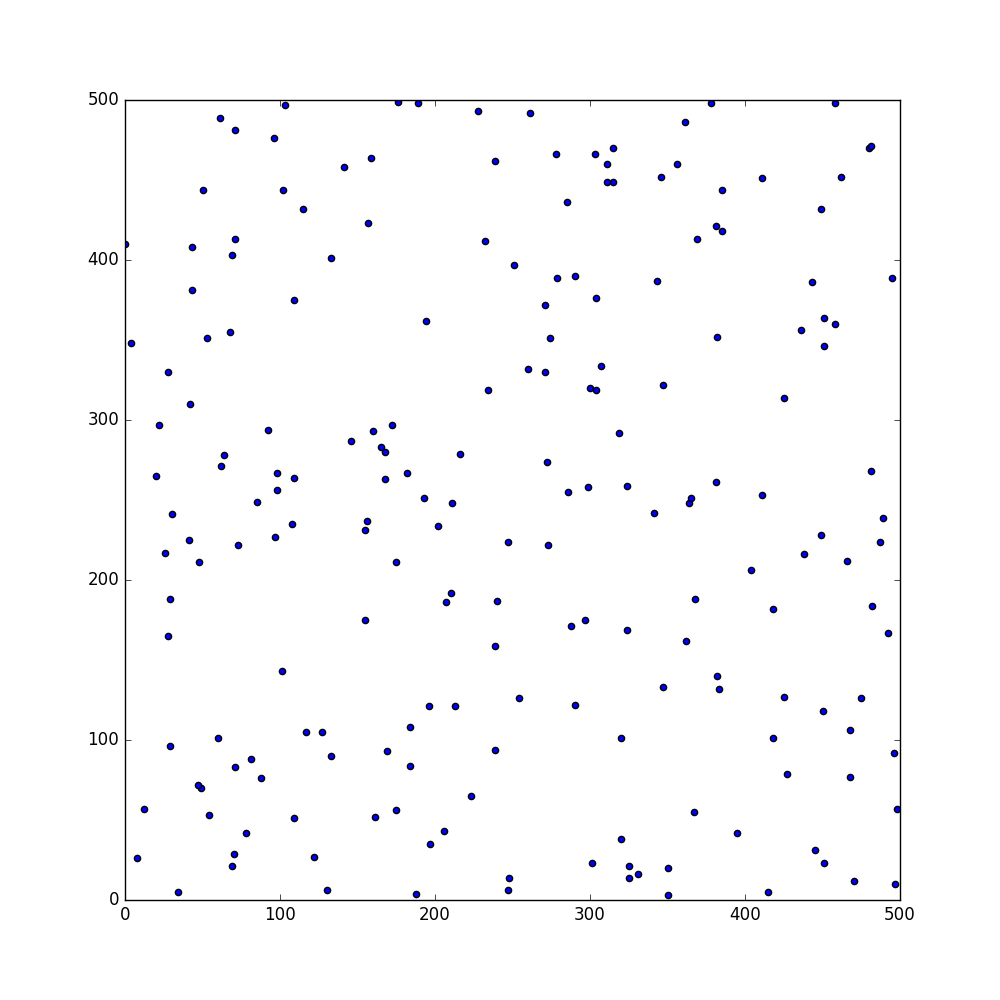
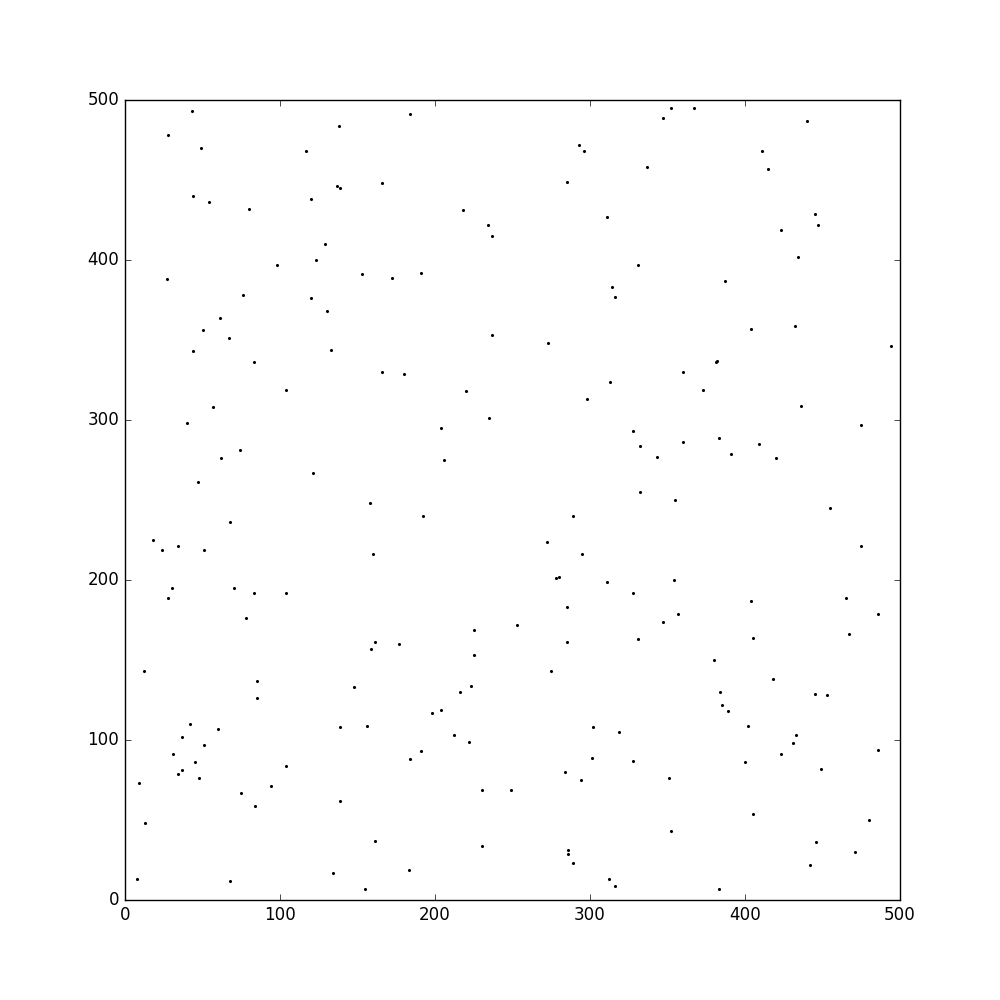
d

diff --git a/function.py b/function.py
@@ -132,7 +132,7 @@ def findLover(P0, FoFList):
         Winner = competitor(P0, subPList)
         return Winner
 
-def mapPosition(PList):
+def mapPosition(PList,scalar=1.5):
     XList = []
     YList = []
     for P in PList:
@@ -142,12 +142,12 @@ def mapPosition(PList):
         YList.append(Pos[1])
     fig = plt.figure(figsize=(10,10))
     ax = fig.add_subplot(111)
-    ax.scatter(XList,YList)
+    ax.scatter(XList,YList,s=scalar)
     ax.set_xlim(0,Nnet)
     ax.set_ylim(0,Nnet)
     fig.savefig("Universe.png")
 
-def mapGroup(GroupList):
+def mapGroup(GroupList,scalar=1.5):
     fig = plt.figure(figsize=(10,10))
     ax = fig.add_subplot(111)
     ColorList = ["red","green","blue","yellow","black"]
@@ -160,8 +160,7 @@ def mapGroup(GroupList):
             XList.append(Pos[0])
             YList.append(Pos[1])
         cind = np.mod(ind,len(ColorList))
-        ax.scatter(XList,YList,color=ColorList[cind])
-        # ax.scatter(XList,YList)
+        ax.scatter(XList,YList,color=ColorList[cind],s=scalar)
     ax.set_xlim(0,Nnet)
     ax.set_ylim(0,Nnet)
     fig.savefig("group.png")

diff --git a/test.py b/test.py
@@ -14,7 +14,9 @@ R_th = func.R_th
 PList = []
 for ID in range(Pnum):
     Sex = random.randint(0,1)
+    Weight = 5  # Const
     person = func.Person(ID,Sex)
+    person.appeal(Weight)
     x = random.randint(0,Nnet-1)
     y = random.randint(0,Nnet-1)
     Pos = [x,y]
@@ -23,7 +25,7 @@ for ID in range(Pnum):
 
 # FOF
 GroupList = func.FOF(PList)
-print len(GroupList)
+print "Num of Groups:", len(GroupList)
 func.mapPosition(PList)
 func.mapGroup(GroupList)
 
@@ -31,4 +33,7 @@ func.mapGroup(GroupList)
 Sum = 0
 for Group in GroupList:
     for P0 in Group:
-        Lover =
+        Lover = func.findLover(P0,Group)
+        if P0 != Lover:
+            Sum += 1
+print "Num of CPs:", Sum/2  # double
